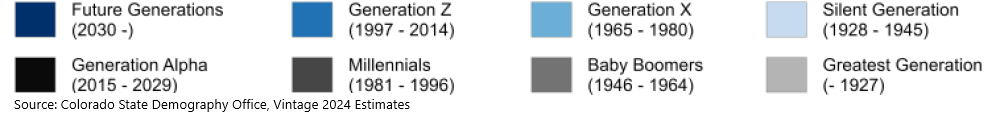
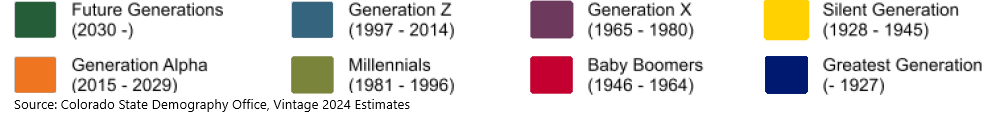
New colors

diff --git a/js/app.js b/js/app.js
@@ -298,32 +298,32 @@ $(function() {
         .attr("height", function(d) {
             return yScale(d.v);
         })
-        .attr("fill", function(d) {
-            var cyear = (d.k);
-            if (cyear < 1928) {
-                creturn = "rgb(180,180,180)";
-            }
-            if (cyear > 1927 && cyear < 1946) {
-                creturn = "rgb(198,219,239)";
-            }
-            if (cyear > 1945 && cyear < 1965) {
-                creturn = "rgb(115,115,115)";
-            }
-            if (cyear > 1964 && cyear < 1981) {
-                creturn = "rgb(107,174,214)";
-            }
-            if (cyear > 1980 && cyear < 1997) {
-                creturn = "rgb(70,70,70)";
-            }
-            if (cyear > 1996 && cyear < 2015) {
-                creturn = "rgb(33,113,181)";
-            }
-            if (cyear > 2014 && cyear < 2030) {
-                creturn = "rgb(10,10,10)";
-            }
-            if (cyear > 2029) {
-                creturn = "rgb(8,48,107)";
-            }
+            .attr("fill", function(d) {
+                var cyear = (d.k);
+                if (cyear < 1928) {
+                    creturn = "#001970";
+                }
+                if (cyear > 1927 && cyear < 1946) {
+                    creturn = "#ffd100";
+                }
+                if (cyear > 1945 && cyear < 1965) {
+                    creturn = "#c3002f";
+                }
+                if (cyear > 1964 && cyear < 1981) {
+                    creturn = "#6d3a5d";
+                }
+                if (cyear > 1980 && cyear < 1997) {
+                    creturn = "#7a853b";
+                }
+                if (cyear > 1996 && cyear < 2015) {
+                    creturn = "#35647e";
+                }
+                if (cyear > 2014 && cyear < 2030) {
+                    creturn = "#ef7521";
+                }
+                if (cyear > 2029) {
+                    creturn = "#245d38";
+                }
             return creturn;
         })
         .on('mouseover', tip.show)
@@ -357,34 +357,34 @@ $(function() {
             .attr("height", function(d) {
                 return yScale(d.v);
             })
-            .attr("fill", function(d) {
+           .attr("fill", function(d) {
                 var cyear = (d.k);
                 if (cyear < 1928) {
-                    creturn = "rgb(180,180,180)";
+                    creturn = "#001970";
                 }
                 if (cyear > 1927 && cyear < 1946) {
-                    creturn = "rgb(198,219,239)";
+                    creturn = "#ffd100";
                 }
                 if (cyear > 1945 && cyear < 1965) {
-                    creturn = "rgb(115,115,115)";
+                    creturn = "#c3002f";
                 }
                 if (cyear > 1964 && cyear < 1981) {
-                    creturn = "rgb(107,174,214)";
+                    creturn = "#6d3a5d";
                 }
                 if (cyear > 1980 && cyear < 1997) {
-                    creturn = "rgb(70,70,70)";
+                    creturn = "#7a853b";
                 }
                 if (cyear > 1996 && cyear < 2015) {
-                    creturn = "rgb(33,113,181)";
+                    creturn = "#35647e";
                 }
                 if (cyear > 2014 && cyear < 2030) {
-                    creturn = "rgb(10,10,10)";
+                    creturn = "#ef7521";
                 }
                 if (cyear > 2029) {
-                    creturn = "rgb(8,48,107)";
+                    creturn = "#245d38";
                 }
-                return creturn;
-            })
+            return creturn;
+        })
             .on('mouseover', tip.show)
             .on('mouseout', tip.hide);
 
@@ -405,31 +405,31 @@ $(function() {
             .attr("fill", function(d) {
                 var cyear = (d.k);
                 if (cyear < 1928) {
-                    creturn = "rgb(180,180,180)";
+                    creturn = "#001970";
                 }
                 if (cyear > 1927 && cyear < 1946) {
-                    creturn = "rgb(198,219,239)";
+                    creturn = "#ffd100";
                 }
                 if (cyear > 1945 && cyear < 1965) {
-                    creturn = "rgb(115,115,115)";
+                    creturn = "#c3002f";
                 }
                 if (cyear > 1964 && cyear < 1981) {
-                    creturn = "rgb(107,174,214)";
+                    creturn = "#6d3a5d";
                 }
                 if (cyear > 1980 && cyear < 1997) {
-                    creturn = "rgb(70,70,70)";
+                    creturn = "#7a853b";
                 }
                 if (cyear > 1996 && cyear < 2015) {
-                    creturn = "rgb(33,113,181)";
+                    creturn = "#35647e";
                 }
                 if (cyear > 2014 && cyear < 2030) {
-                    creturn = "rgb(10,10,10)";
+                    creturn = "#ef7521";
                 }
                 if (cyear > 2029) {
-                    creturn = "rgb(8,48,107)";
+                    creturn = "#245d38";
                 }
-                return creturn;
-            });
+            return creturn;
+        })
 
 
         bars.exit().remove();
